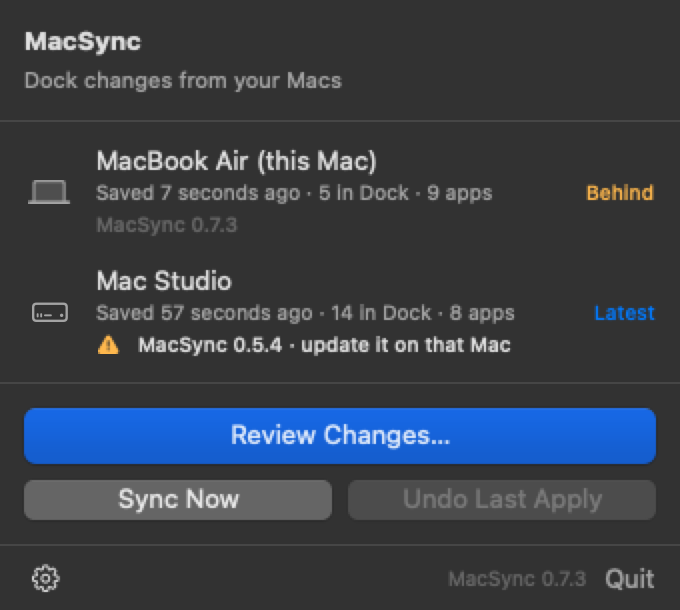
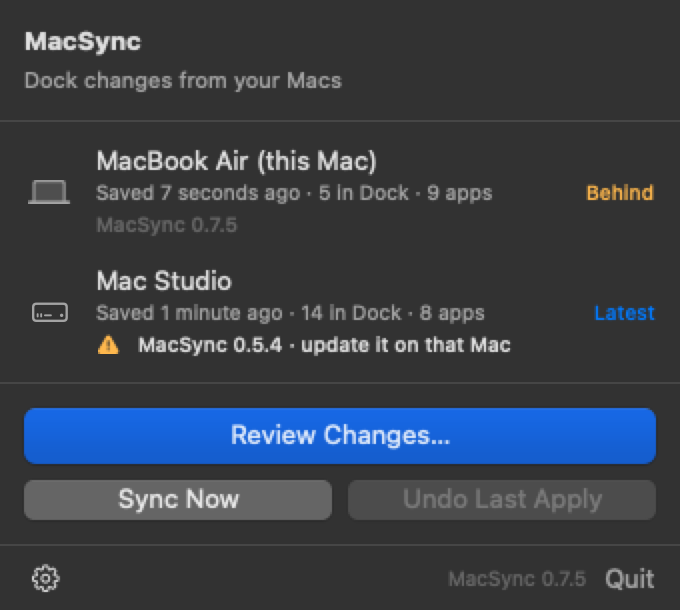
MacSync 0.7.5: Homebrew updates section at the top; website Homebrew section

Changed region(s): [[0.2162, 0.4984, 0.7721, 0.5295]]

diff --git a/docs/index.html b/docs/index.html
@@ -140,7 +140,19 @@
   ul.feat-list .bi svg { width:17px; height:17px; stroke-width:2.1; }
   @media (prefers-reduced-motion: reduce) { .feat, .feat:hover { transition:none; transform:none; } }
 
+
+  .brew { display:grid; grid-template-columns: 1fr 1.15fr; gap: 34px; align-items:center;
+          background: radial-gradient(120% 90% at 0% 0%, color-mix(in srgb, #ff9f0a 12%, transparent), transparent 60%), var(--card);
+          border:1px solid var(--line); border-radius: 24px; padding: 34px; }
+  .brew .badge-row { display:flex; flex-wrap:wrap; gap:8px; margin: 16px 0 0; }
+  .brew .pill { font-size: 13.5px; font-weight: 600; border-radius: 999px; padding: 5px 12px;
+                background: color-mix(in srgb, #ff9f0a 16%, transparent); color: var(--fg); }
+  .brew .mug { width:54px; height:54px; border-radius:15px; display:inline-flex; align-items:center; justify-content:center; margin-bottom: 12px;
+               background: linear-gradient(140deg, #ff9f0a, #ffcc00); color:#fff; box-shadow: 0 10px 24px -8px #ff9f0aaa; }
+  .brew .mug svg { width:30px; height:30px; fill:none; stroke:currentColor; stroke-width:2; stroke-linecap:round; stroke-linejoin:round; }
+
   @media (max-width: 820px) {
+    .brew { grid-template-columns: 1fr; padding: 22px; }
     .stop { grid-template-columns: 1fr; gap: 14px; } .stop:nth-child(even) .stop-text { order: 0; }
     h1 { font-size: 44px; } .tagline { font-size: 19px; } h2 { font-size: 28px; }
     .grid, .grid.two, .split { grid-template-columns: 1fr; }
@@ -155,6 +167,7 @@
     <a class="brand" href="#"><img src="assets/icon.png" alt="">MacSync</a>
     <div class="links">
       <a href="#features">Features</a>
+      <a href="#homebrew">Homebrew</a>
       <a href="#tour">Inside</a>
       <a href="#artcraft">ArtCraft</a>
       <a href="#how">How it works</a>
@@ -331,6 +344,30 @@ brew install --cask macsync</pre>
           <li><span class="bi"><svg aria-hidden="true"><use href="#bi-brush"/></svg></span>Photoshop, Camera Raw and iStat Menus settings</li>
           <li><span class="bi"><svg aria-hidden="true"><use href="#bi-person"/></svg></span>A sign-in list, password manager first</li>
         </ul></div>
+    </div>
+  </section>
+
+  <section id="homebrew">
+    <div class="brew">
+      <div>
+        <span class="mug"><svg viewBox="0 0 24 24" aria-hidden="true"><path d="M4.5 9h11.5v6.5a4.5 4.5 0 0 1-4.5 4.5H9a4.5 4.5 0 0 1-4.5-4.5z"/><path d="M16 11h1.8a2.6 2.6 0 0 1 0 5.2H16M8 3.5v2.5M12 3.5v2.5"/></svg></span>
+        <p class="eyebrow">Homebrew, handled</p>
+        <h2>Every Homebrew app and tool, up to date on every Mac</h2>
+        <ul class="ticks">
+          <li>Install something with Homebrew on one Mac and every other Mac offers it, one click or all at once</li>
+          <li>Each Mac checks Homebrew when MacSync opens and every six hours</li>
+          <li>Updates install by themselves: apps, command-line tools, and apps that update themselves like Raycast</li>
+          <li>npm global packages and uv tools are kept current too</li>
+          <li>An app you have open is never quit under you: it waits, with Quit and Update</li>
+          <li>Rather choose? Turn automatic off and get a list, from → to, with Update and Update All</li>
+          <li>Uninstall a package on one Mac and the others offer to remove it, or keep it there</li>
+        </ul>
+        <div class="badge-row"><span class="pill">brew upgrade, for you</span><span class="pill">Casks and formulae</span><span class="pill">npm and uv</span><span class="pill">Taps sync too</span></div>
+      </div>
+      <div>
+        <img class="shot shot-light" src="assets/section-updates-light.png" alt="The Homebrew updates section of the MacSync window" loading="lazy">
+        <img class="shot shot-dark" src="assets/section-updates-dark.png" alt="The Homebrew updates section of the MacSync window" loading="lazy">
+      </div>
     </div>
   </section>
 

diff --git a/Sources/MacSyncApp/ExtrasViews.swift b/Sources/MacSyncApp/ExtrasViews.swift
@@ -529,18 +529,18 @@ struct UpdatesPanel: View {
         default: return ""
         }
     }
-    @AppStorage("review.updates.open") private var open = true
+    @AppStorage("review.homebrew.open") private var open = true
 
     var body: some View {
         VStack(alignment: .leading, spacing: 12) {
             let report = model.upgradeReport
-            PanelHeader(symbol: "arrow.triangle.2.circlepath", title: "Updates",
-                        subtitle: model.upgrading ? (model.progress ?? "Updating…")
+            PanelHeader(symbol: "mug.fill", title: "Homebrew updates",
+                        subtitle: model.upgrading ? (model.progress ?? "Checking Homebrew…")
                             : report.map { "\($0.summary) · checked \($0.ranAt.formatted(.relative(presentation: .named)))" }
-                            ?? "Homebrew apps and tools, npm and uv, kept on their newest versions",
+                            ?? "Checks Homebrew for newer apps and tools, plus npm and uv",
                         isExpanded: $open) {
-                Toggle("Automatic", isOn: $model.autoUpgrade).toggleStyle(.switch).controlSize(.small)
-                    .help("Check and update on open and every six hours")
+                Toggle("Install automatically", isOn: $model.autoUpgrade).toggleStyle(.switch).controlSize(.small)
+                    .help("Checks on open and every six hours, and installs what's new. Off: lists them for you to update.")
                 let outdated = report?.outdated ?? []
                 if !outdated.isEmpty {
                     Button("Update All (\(outdated.count))") { model.upgrade(outdated) }
@@ -550,7 +550,14 @@ struct UpdatesPanel: View {
                     .help(model.autoUpgrade ? "Look for newer versions and install them" : "Look for newer versions")
                     .glassButton().controlSize(.small).disabled(model.upgrading)
             }
-            if open, let report {
+            if open || !(model.upgradeReport?.outdated ?? []).isEmpty {
+                Label(model.autoUpgrade
+                      ? "Checks when MacSync opens and every six hours, and installs every new version. Apps you have open wait until you quit them."
+                      : "Checks when MacSync opens and every six hours, and lists new versions here for you to update.",
+                      systemImage: model.autoUpgrade ? "checkmark.circle" : "list.bullet")
+                    .font(.caption).foregroundStyle(.secondary)
+            }
+            if open || !(model.upgradeReport?.outdated ?? []).isEmpty, let report {
                 let outdated = report.outdated ?? []
                 if !outdated.isEmpty {
                     Text("Newer versions are out. Update them one at a time, or all at once.")

diff --git a/Sources/MacSyncApp/ReviewView.swift b/Sources/MacSyncApp/ReviewView.swift
@@ -67,6 +67,7 @@ struct ReviewView: View {
                         Label(message, systemImage: "arrow.uturn.backward.circle.fill")
                             .foregroundStyle(.green).padding(14).frame(maxWidth: .infinity, alignment: .leading).glassPanel()
                     }
+                    UpdatesPanel(model: model)
                     ToRemovePanel(model: model)
                     ExtrasRemovedPanel(model: model)
                     if let plan = model.overview?.dockPlan ?? model.overview?.dockPreview {
@@ -92,7 +93,6 @@ struct ReviewView: View {
                         SettingsMatchPanel(model: model)
                     }
                     if model.proEnabled { AppSettingsPanel(model: model) }
-                    UpdatesPanel(model: model)
                     SignInPanel(model: model)
                     HistoryPanel(model: model).id("history")
                     if let overview = model.overview, !overview.hasPendingChanges, !model.canApply, model.lastReport == nil {
@@ -1449,7 +1449,7 @@ private struct SettingsPanel: View {
 /// Test builds only: one section of the sync window on its own, for the website's pictures.
 extension ReviewView {
     static let probeSections = ["dock", "notInstalled", "artcraft", "apps", "appStore", "tools", "toRemove", "settings", "history",
-                                "config", "ai", "signin"]
+                                "config", "ai", "signin", "updates"]
 
     @MainActor static func probeSection(_ key: String, model: AppModel) -> AnyView? {
         let o = model.overview
@@ -1469,6 +1469,12 @@ extension ReviewView {
         case "settings":
             panel = o?.settingsPlan.map { AnyView(SettingsPanel(plan: $0, model: model)) } ?? AnyView(SettingsMatchPanel(model: model))
         case "history": panel = AnyView(HistoryPanel(model: model))
+        case "updates":
+            model.upgradeReport = UpgradeReport(ranAt: Date().addingTimeInterval(-180), upgraded: [], waiting: [], failures: [], outdated: [
+                OutdatedItem(token: "cask:visual-studio-code", name: "Visual Studio Code", from: "1.106.0", to: "1.106.2", bundleID: "com.microsoft.VSCode"),
+                OutdatedItem(token: "formula:ffmpeg", name: "ffmpeg", from: "8.0", to: "8.0.1"),
+                OutdatedItem(token: "npm:vercel", name: "vercel", from: "48.1.0", to: "48.2.3")])
+            panel = AnyView(UpdatesPanel(model: model))
         case "config": panel = AnyView(FilesPanel(area: .config, model: model))
         case "ai": panel = AnyView(FilesPanel(area: .ai, model: model))
         case "signin":

diff --git a/Sources/MacSyncCore/Upgrades.swift b/Sources/MacSyncCore/Upgrades.swift
@@ -3,6 +3,9 @@ import Foundation
 
 /// An app or tool with a newer version waiting.
 public struct OutdatedItem: Codable, Equatable, Identifiable {
+    public init(token: String, name: String, from: String, to: String, bundleID: String? = nil) {
+        self.token = token; self.name = name; self.from = from; self.to = to; self.bundleID = bundleID
+    }
     public var token: String
     public var name: String
     public var from: String
@@ -19,6 +22,9 @@ public struct UpgradeReport: Codable, Equatable {
     public var failures: [String] = []
     /// Newer versions found and not installed yet.
     public var outdated: [OutdatedItem]?
+    public init(ranAt: Date, upgraded: [OutdatedItem] = [], waiting: [OutdatedItem] = [], failures: [String] = [], outdated: [OutdatedItem]? = nil) {
+        self.ranAt = ranAt; self.upgraded = upgraded; self.waiting = waiting; self.failures = failures; self.outdated = outdated
+    }
     public var summary: String {
         let pending = outdated ?? []
         if upgraded.isEmpty && waiting.isEmpty && failures.isEmpty && pending.isEmpty { return "Everything is up to date" }

diff --git a/Sources/MacSyncApp/MenuView.swift b/Sources/MacSyncApp/MenuView.swift
@@ -102,8 +102,8 @@ struct MenuView: View {
                 Toggle("Apply Dock Changes When I Open the Lid", isOn: $model.autoApplyDock)
                 Toggle("Open at Login", isOn: Binding(get: { model.openAtLogin }, set: { model.setOpenAtLogin($0) }))
                 Toggle("Update Automatically", isOn: $model.autoUpdate)
-                Toggle("Keep Apps and Tools Up to Date", isOn: $model.autoUpgrade)
-                Button(model.upgrading ? "Updating Apps and Tools…" : "Update Apps and Tools Now") { model.upgradeAll() }
+                Toggle("Install Homebrew Updates Automatically", isOn: $model.autoUpgrade)
+                Button(model.upgrading ? "Checking Homebrew…" : "Check Homebrew for Updates") { if model.autoUpgrade { model.upgradeAll() } else { model.checkUpgrades() } }
                     .disabled(model.upgrading)
                 Button("Check for Updates") { model.checkForUpdates(manual: true) }
                 Divider()

diff --git a/Sources/MacSyncCore/Environment.swift b/Sources/MacSyncCore/Environment.swift
@@ -20,7 +20,7 @@ public struct MacSyncEnvironment {
     public var applicationsDirectory: URL
     public var homeDirectory: String
 
-    public static let appVersion = "0.7.4"
+    public static let appVersion = "0.7.5"
 
     public var iCloudAvailable: Bool {
         FileManager.default.fileExists(atPath: syncDirectory.deletingLastPathComponent().path)

diff --git a/CHANGELOG.md b/CHANGELOG.md
@@ -1,5 +1,9 @@
 # Changelog
 
+## 0.7.5
+- **Homebrew updates** is its own section at the top of the window: what needs updating (from → to), Update and Update All, and an Install automatically switch. It opens by itself when something is waiting.
+- The menu's items say what they do: Install Homebrew Updates Automatically, and Check Homebrew for Updates (which only lists them when automatic is off).
+
 ## 0.7.4
 - **See what needs updating:** the Updates section lists every Homebrew app and tool, npm package and uv tool with a newer version, from → to, with Update on each row and Update All. With Automatic off, MacSync still checks on open and every six hours and lists them; with it on, it installs them.
 - `macsync outdated` lists the same from Terminal.
